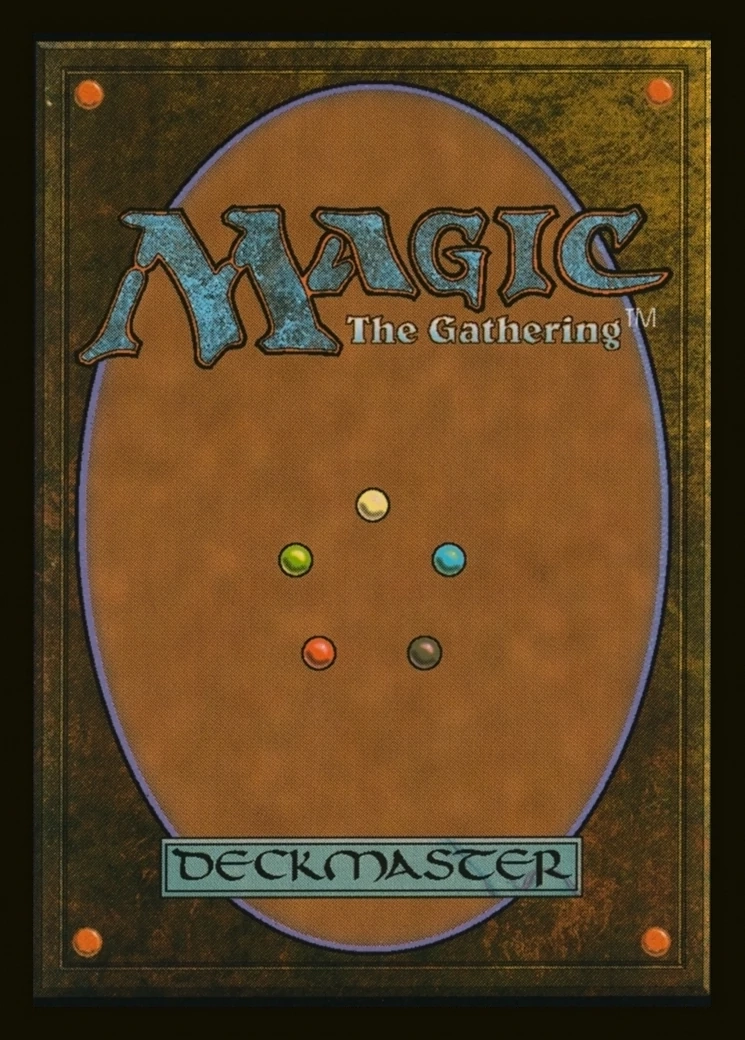
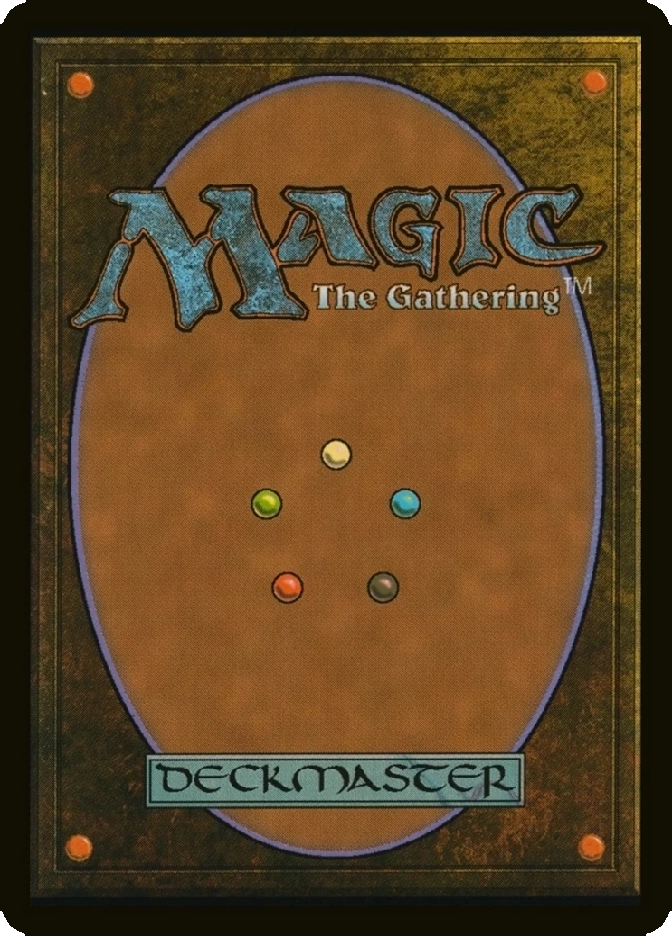
added image mask

diff --git a/style.css b/style.css
@@ -84,6 +84,9 @@ html {
       -webkit-backface-visibility: hidden;
       /* Safari */
       backface-visibility: hidden;
+      mask-image: url('./images/cardBack.webp');
+      mask-repeat: no-repeat;
+      mask-size: contain;
 }
 
 .flip-card-front {
